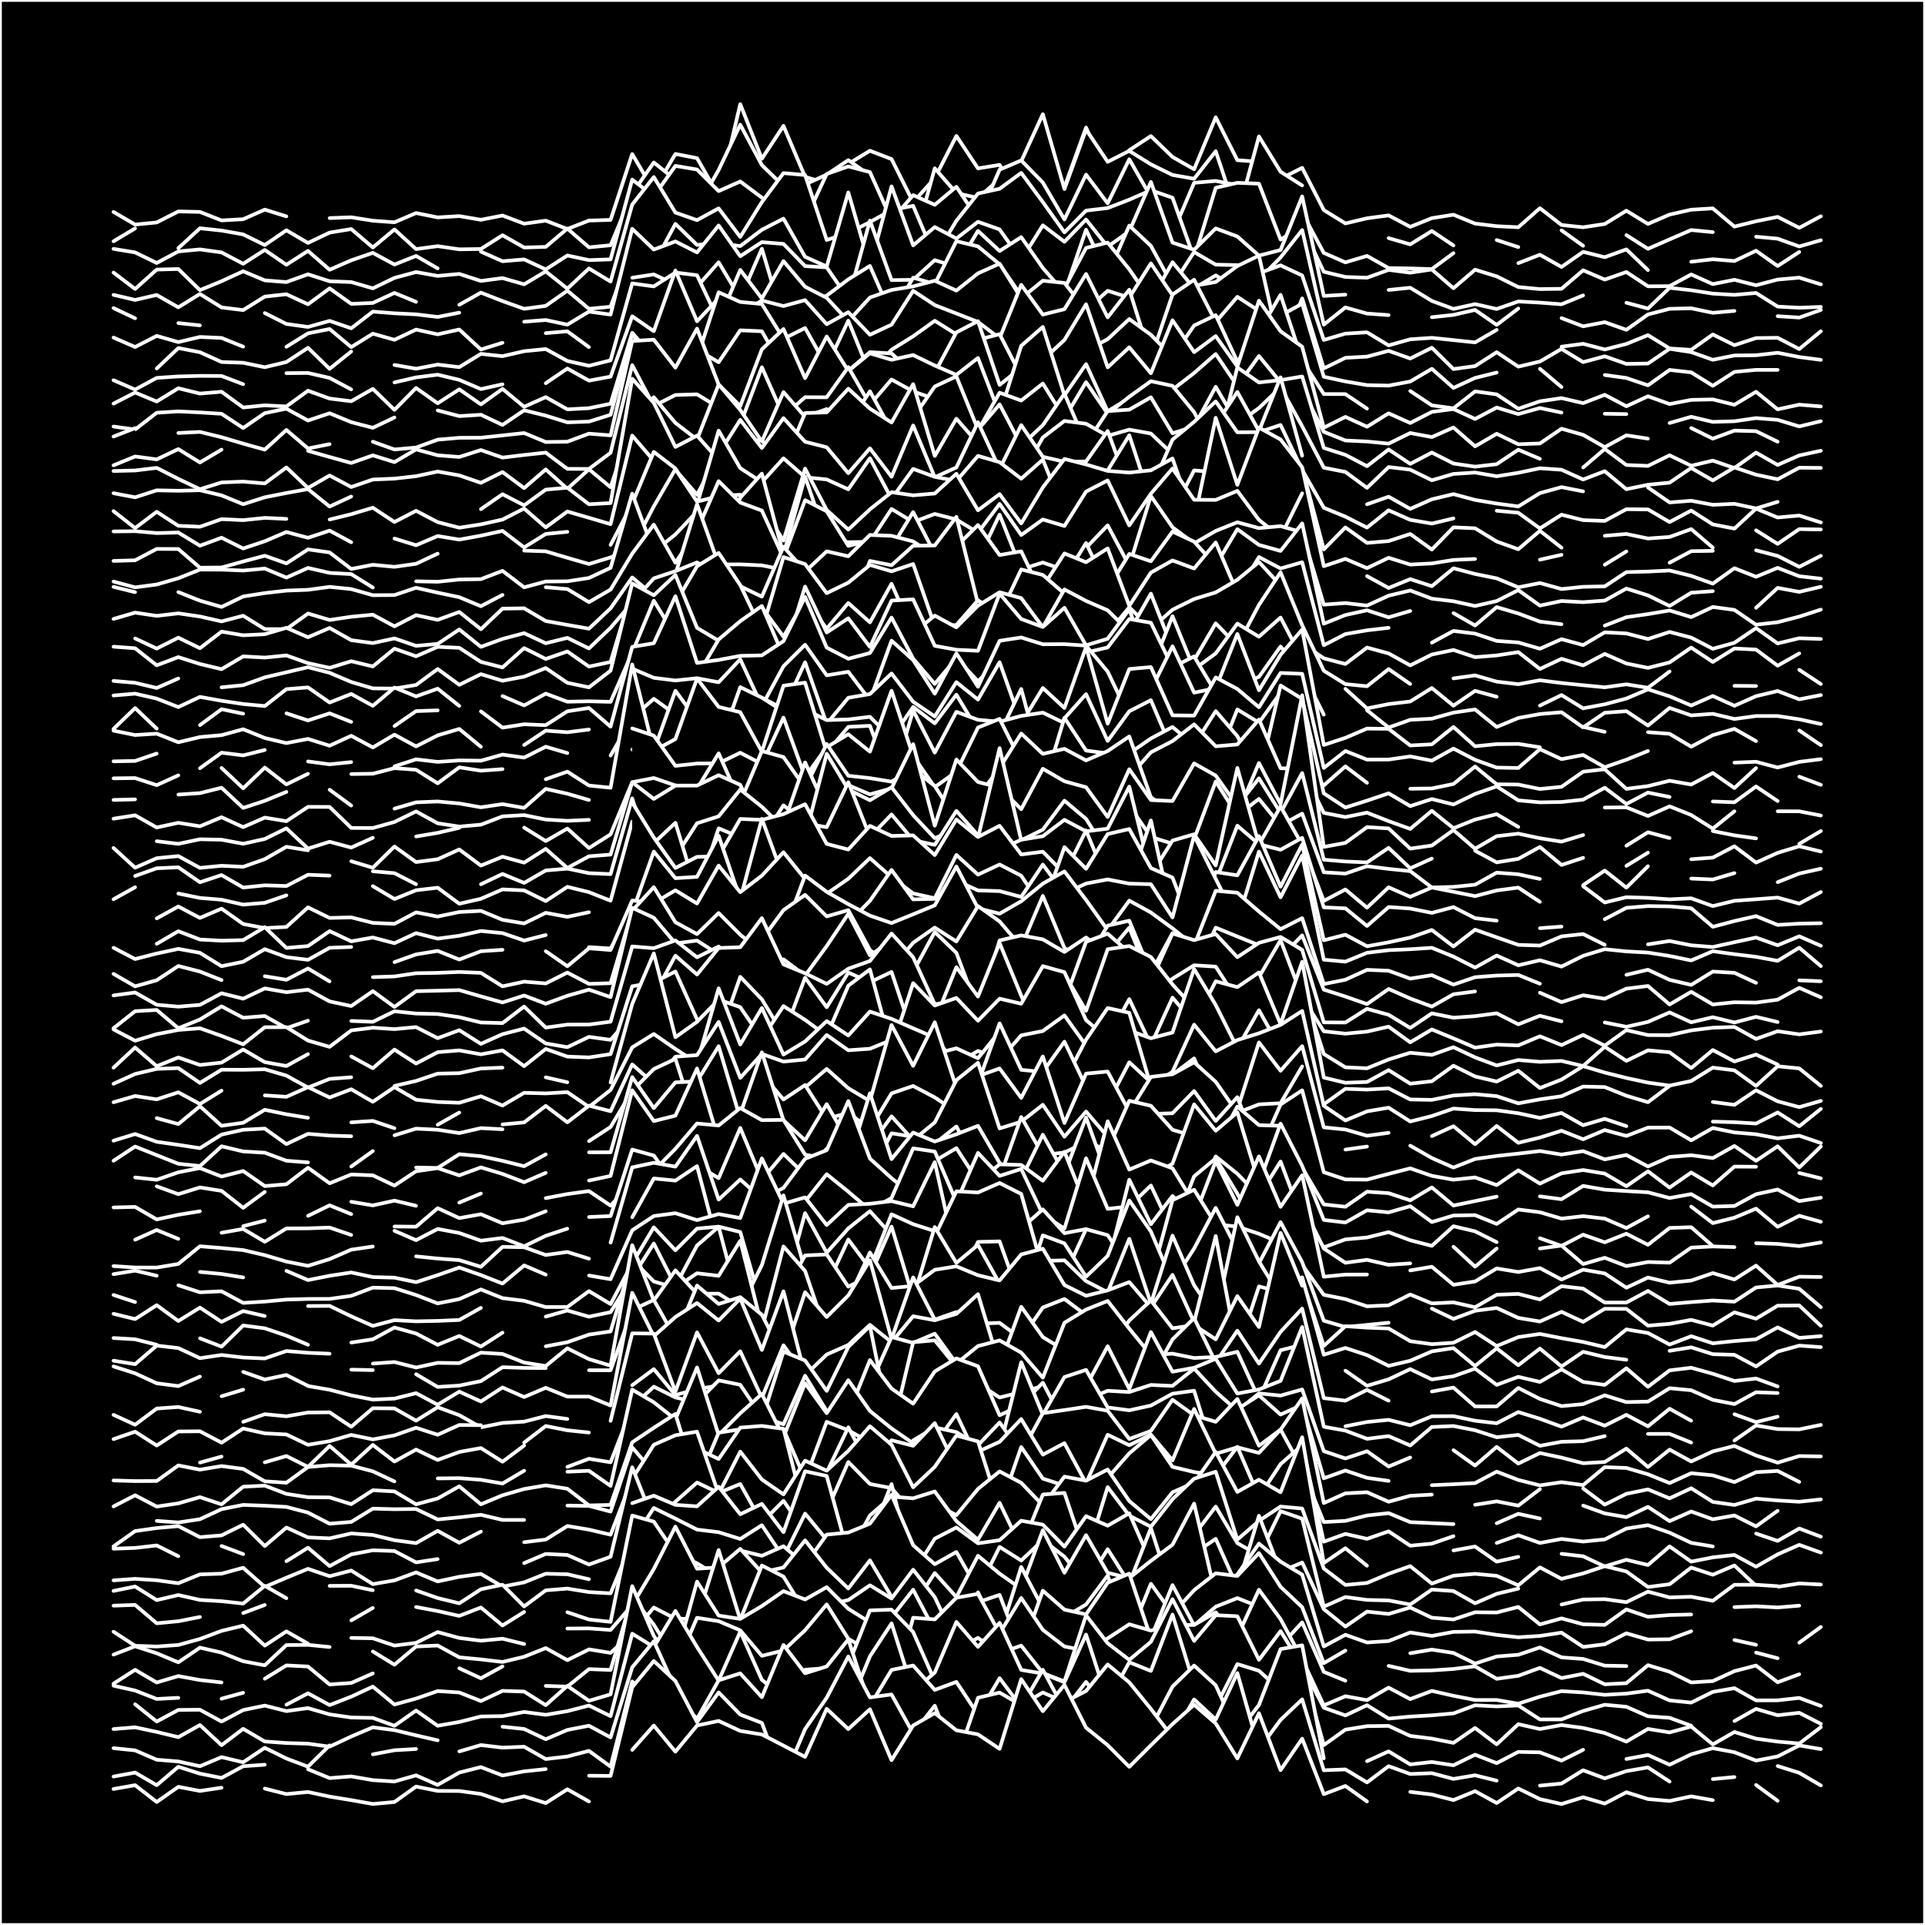
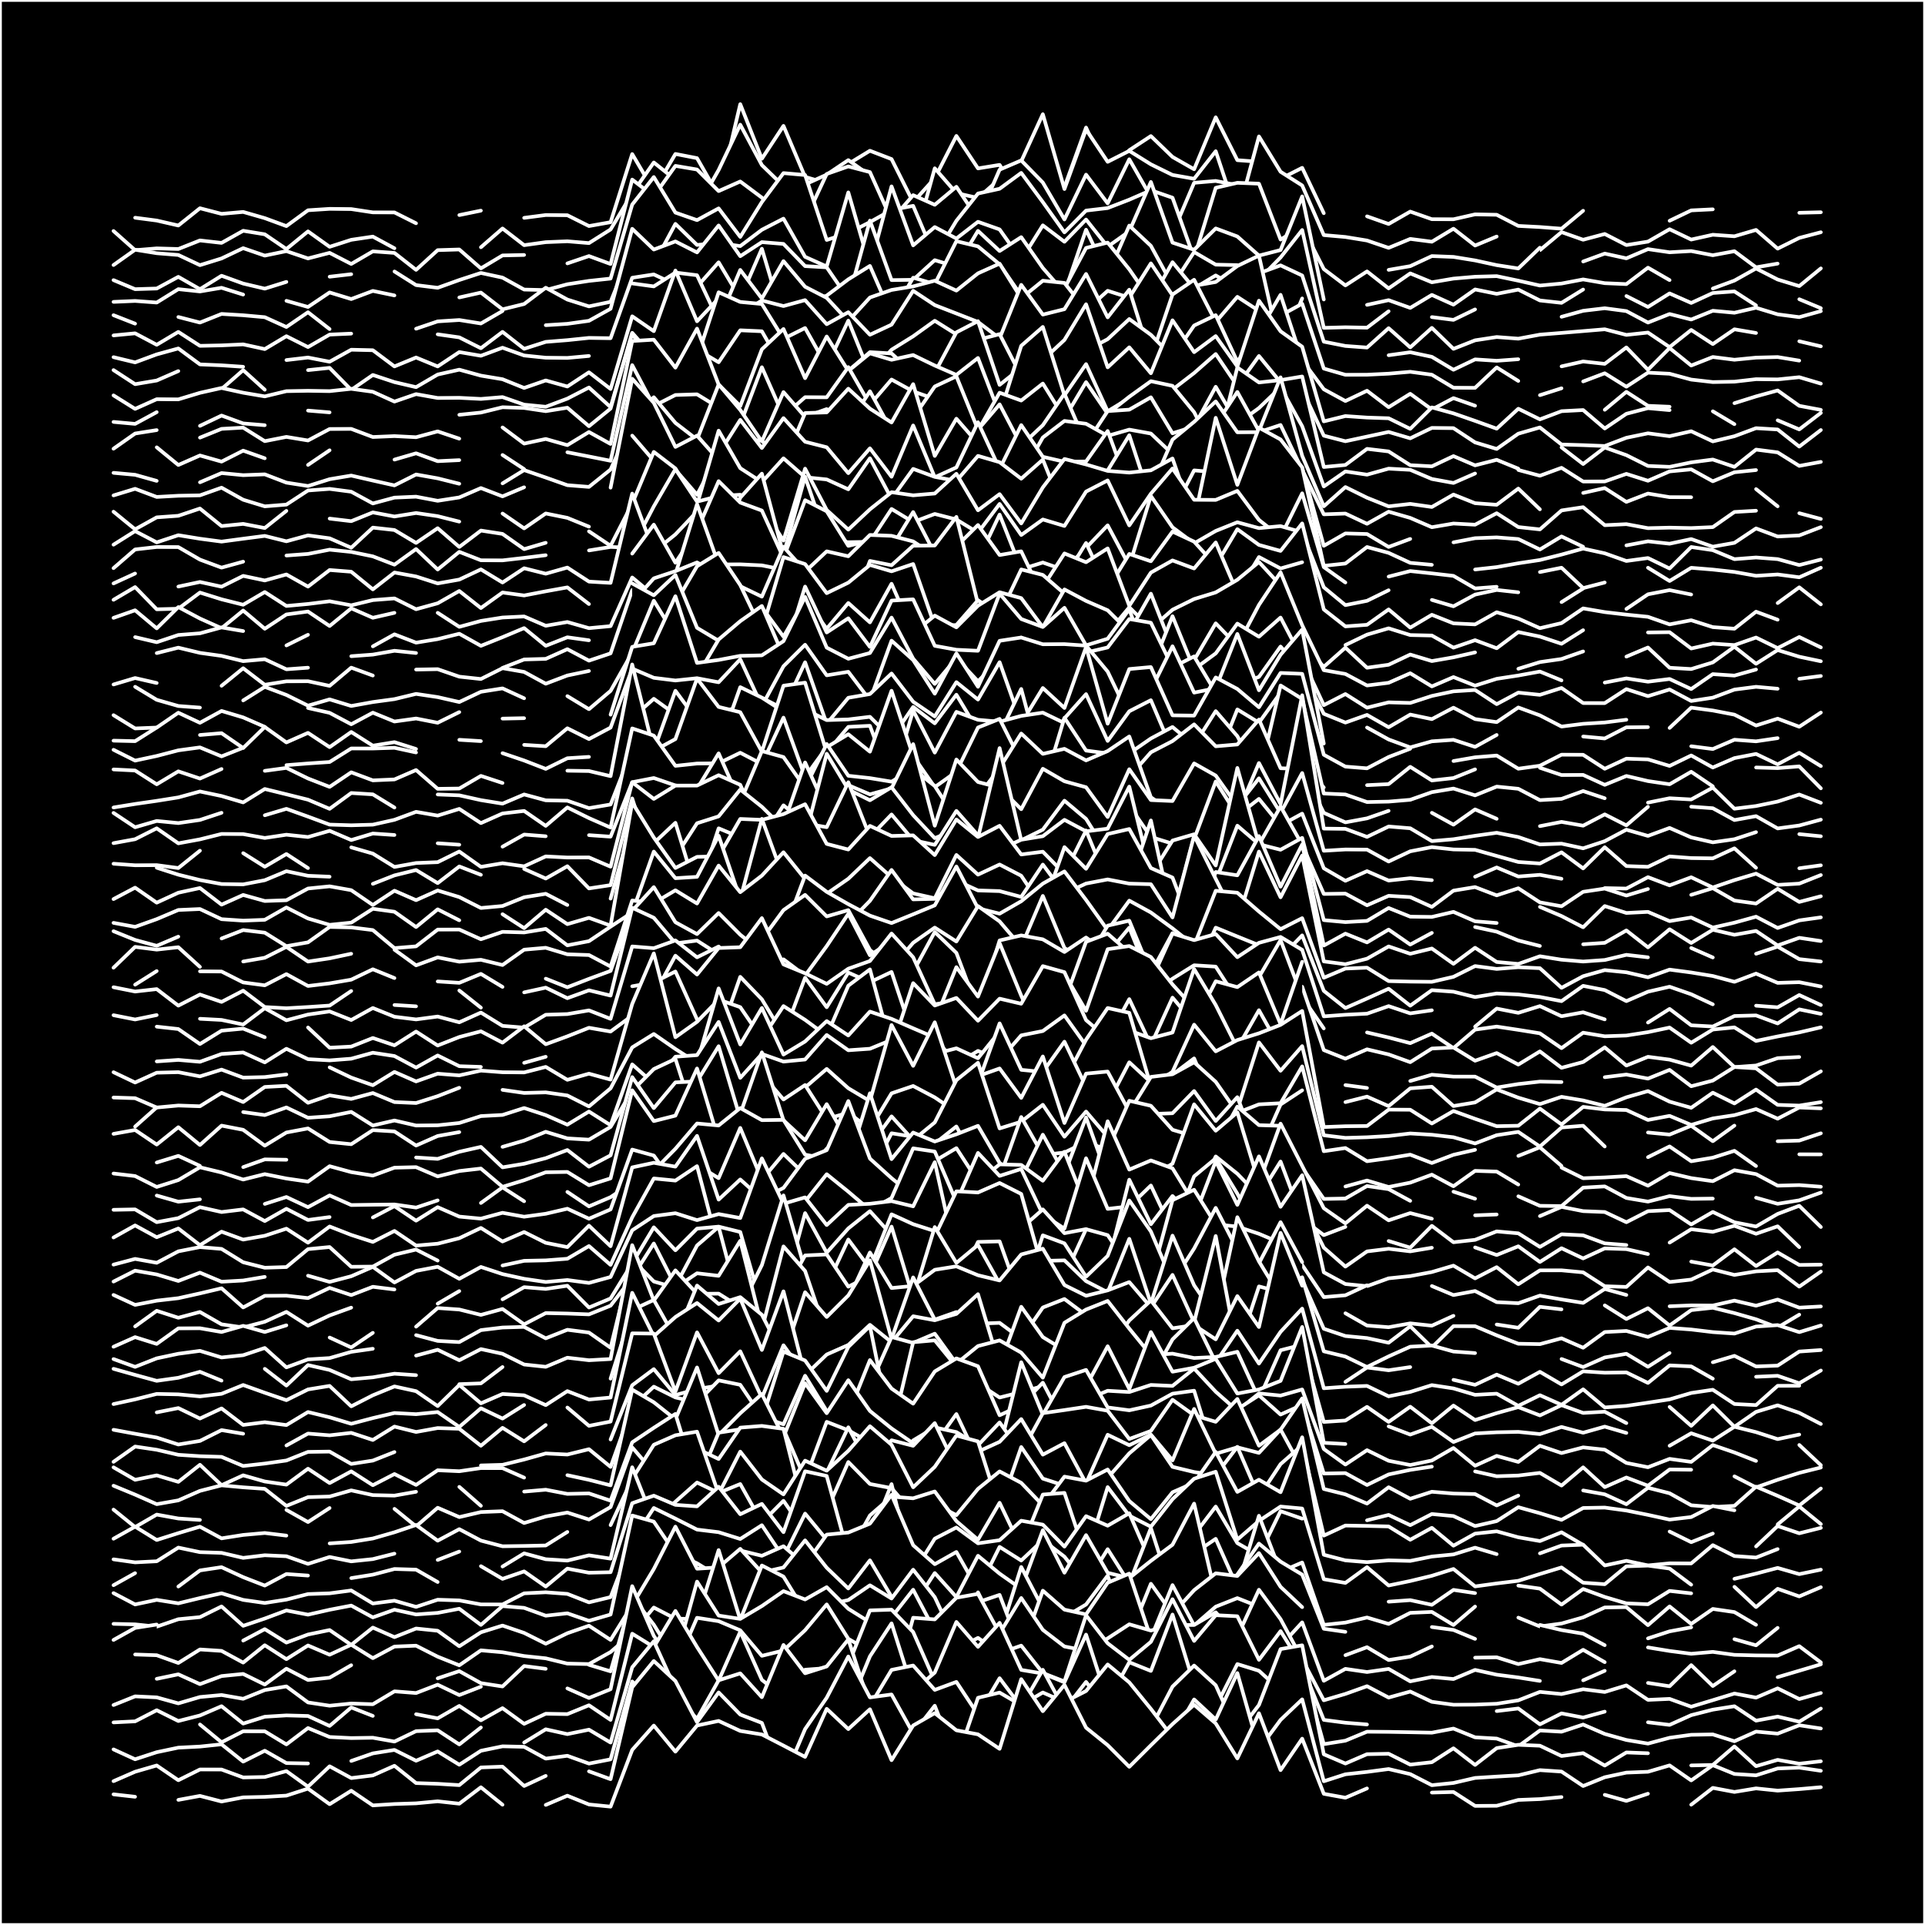
adding new noise functions

Changed region(s): [[0.6552, 0.0936, 0.9672, 0.936], [0.0624, 0.0936, 0.3432, 0.936]]

diff --git a/README.md b/README.md
@@ -6,3 +6,5 @@ Repository for making generative joy plots
 ![classic style of joy plot](outputs/classic_1.png)
 
 ![Trying to replicate Joy Division album](outputs/classic_2.png)
+
+![Using perlin noise to generate elevation](outputs/perlin_joy_1.png)
